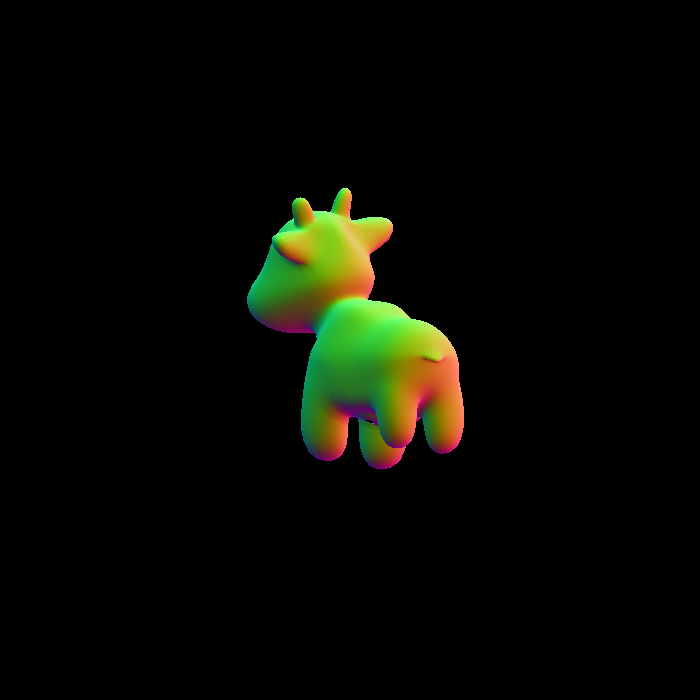
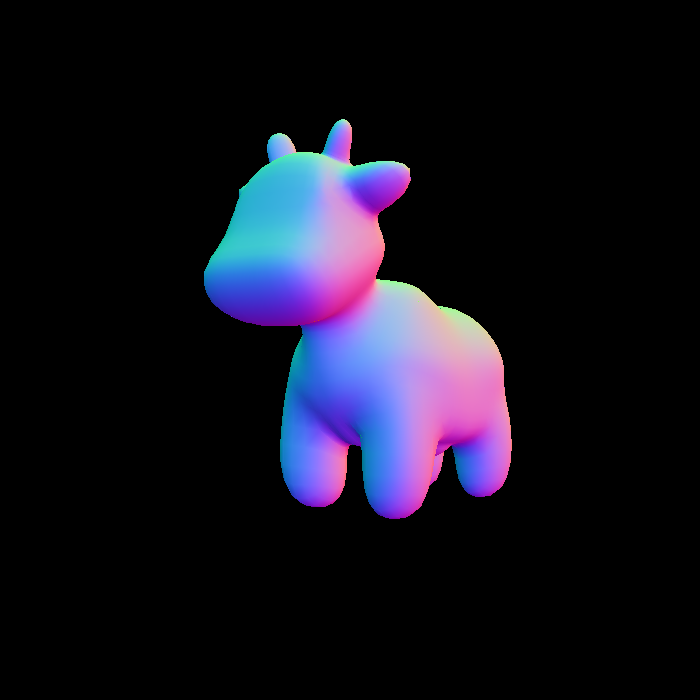
Update get_projection_matrix()

Changed region(s): [[0.27, 0.15, 0.75, 0.75]]

diff --git a/_posts/2024-12-26-GAMES101-Assignment3.md b/_posts/2024-12-26-GAMES101-Assignment3.md
@@ -9,6 +9,31 @@ tags: [GAMES101, 着色]
 
 我的所有GAMES101作业的仓库地址: [GAMES101-Assignments](https://github.com/WangSimiao2000/GAMES101-Assignments)
 
+## 投影矩阵修改
+
+> 之前的投影矩阵感觉有点问题, 这里重新实现一下
+
+修改main.cpp中的get_projection_matrix()函数, 实现投影矩阵的计算:
+
+```cpp
+Eigen::Matrix4f projection;
+float top = -tan(DEG2RAD(eye_fov/2.0f) * abs(zNear));
+float right = top * aspect_ratio;
+projection << zNear/right,0,0,0,
+              0,zNear/top,0,0,
+              0,0,(zNear+zFar)/(zNear-zFar),(2*zNear*zFar)/(zFar-zNear),
+              0,0,1,0;
+return projection;
+```
+
+然后在gloabl.h中添加一个宏定义:
+
+```cpp
+inline double DEG2RAD(double deg) {return deg * MY_PI/180;}
+```
+
+以上定义是为了将角度(deg)转换为弧度(rad), 以便在计算投影矩阵时使用
+
 ## 实现法向量、颜色、纹理颜色的插值
 
 > 对应pdf任务1,2
@@ -106,7 +131,7 @@ void rst::rasterizer::rasterize_triangle(const Triangle& t, const std::array<Eig
 }
 ```
 
-此外, 还需要将前两次作业的投影矩阵的计算代码复制到此项目的main.cpp的get_projection_matrix()函数中, 以便在rasterizer.cpp中调用
+
 
 此时可以在build目录的Debug文件夹下运行项目:
 
